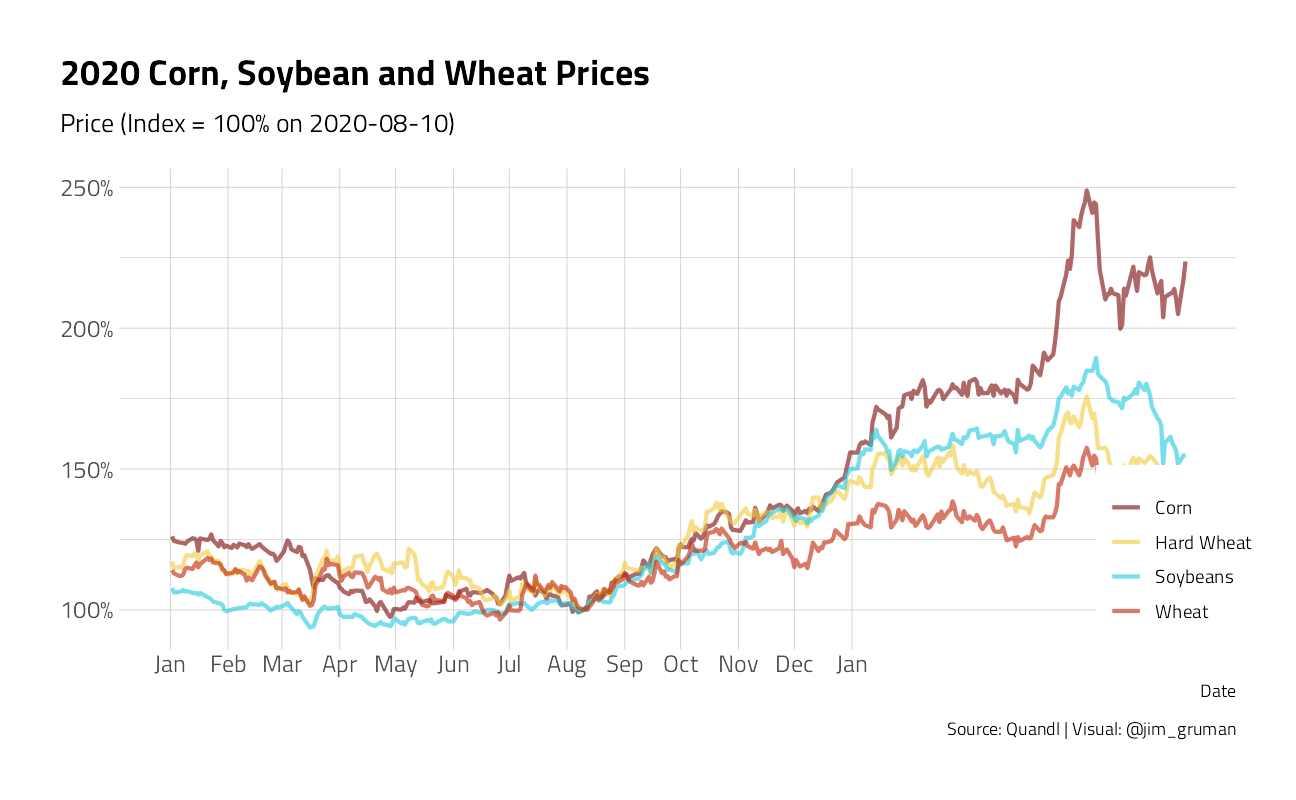
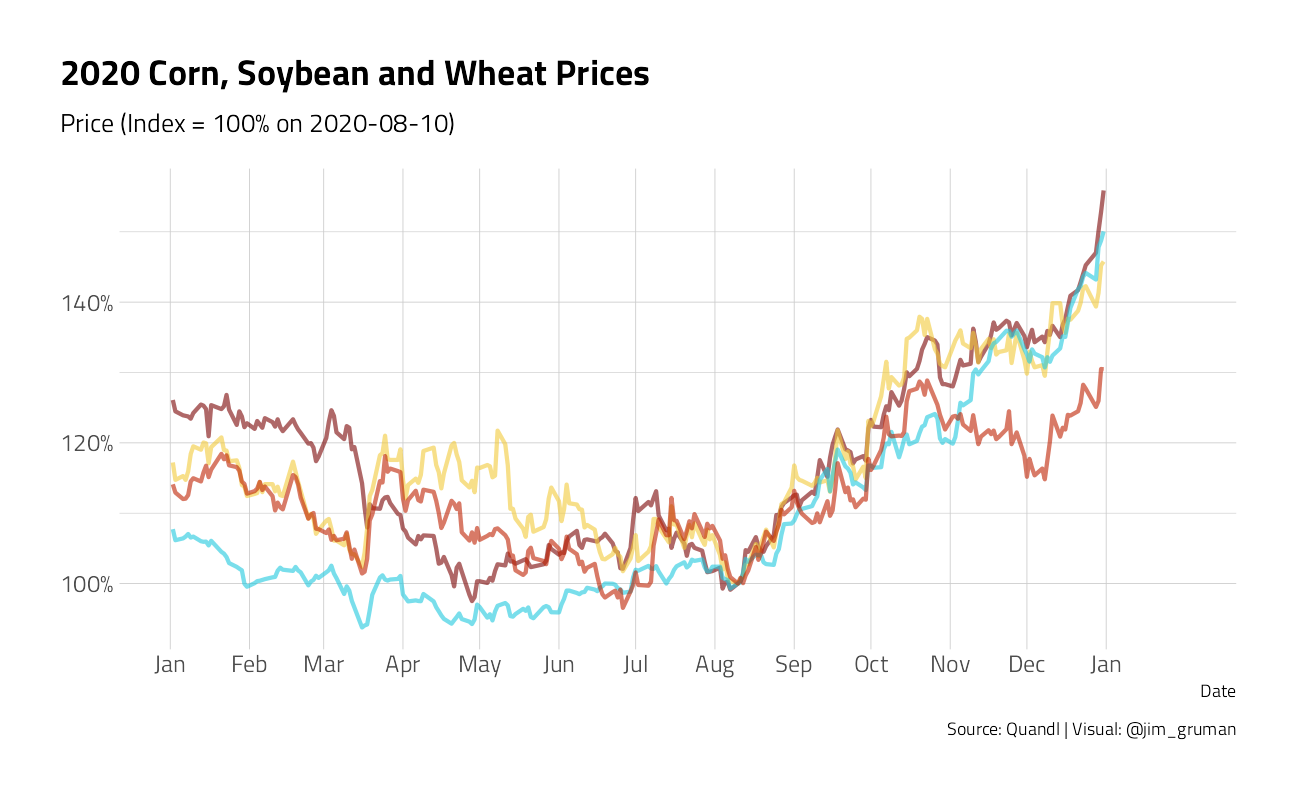
Build site.

diff --git a/docs/NASSStocksToUse.html b/docs/NASSStocksToUse.html
@@ -404,16 +404,16 @@ This reproducible <a href="http://rmarkdown.rstudio.com">R Markdown</a> analysis
 <div class="panel panel-default">
 <div class="panel-heading">
 <p class="panel-title">
-<a data-toggle="collapse" data-parent="#workflowr-checks" href="#strongRepositoryversionstrongahrefhttpsgithubcomopus1993myTidyTuesdaytree050b3d1964e13ca553042675c7e7b8377f16aecetargetblank050b3d1a"> <span class="glyphicon glyphicon-ok text-success" aria-hidden="true"></span> <strong>Repository version:</strong> <a href="https://github.com/opus1993/myTidyTuesday/tree/050b3d1964e13ca553042675c7e7b8377f16aece" target="_blank">050b3d1</a> </a>
+<a data-toggle="collapse" data-parent="#workflowr-checks" href="#strongRepositoryversionstrongahrefhttpsgithubcomopus1993myTidyTuesdaytree1c0244747ea918c54973bc61f8cb57d44e6970detargetblank1c02447a"> <span class="glyphicon glyphicon-ok text-success" aria-hidden="true"></span> <strong>Repository version:</strong> <a href="https://github.com/opus1993/myTidyTuesday/tree/1c0244747ea918c54973bc61f8cb57d44e6970de" target="_blank">1c02447</a> </a>
 </p>
 </div>
[2 lines of base64/hex data omitted]
 <div class="panel-body">
 <p>
 Great! You are using Git for version control. Tracking code development and connecting the code version to the results is critical for reproducibility.
 </p>
 <p>
-The results in this page were generated with repository version <a href="https://github.com/opus1993/myTidyTuesday/tree/050b3d1964e13ca553042675c7e7b8377f16aece" target="_blank">050b3d1</a>. See the <em>Past versions</em> tab to see a history of the changes made to the R Markdown and HTML files.
+The results in this page were generated with repository version <a href="https://github.com/opus1993/myTidyTuesday/tree/1c0244747ea918c54973bc61f8cb57d44e6970de" target="_blank">1c02447</a>. See the <em>Past versions</em> tab to see a history of the changes made to the R Markdown and HTML files.
 </p>
 <p>
 Note that you need to be careful to ensure that all relevant files for the analysis have been committed to Git prior to generating the results (you can use <code>wflow_publish</code> or <code>wflow_git_commit</code>). workflowr only checks the R Markdown file, but you know if there are other scripts or data files that it depends on. Below is the status of the Git repository when the results were generated:
@@ -467,6 +467,40 @@ Message
 </tr>
 </thead>
 <tbody>
+<tr>
+<td>
+Rmd
+</td>
+<td>
+<a href="https://github.com/opus1993/myTidyTuesday/blob/1c0244747ea918c54973bc61f8cb57d44e6970de/analysis/NASSStocksToUse.Rmd" target="_blank">1c02447</a>
+</td>
+<td>
+opus1993
+</td>
+<td>
+2021-09-09
+</td>
+<td>
+label lines directly without a legend
+</td>
+</tr>
+<tr>
+<td>
+html
+</td>
+<td>
+<a href="https://rawcdn.githack.com/opus1993/myTidyTuesday/210ff1d85e2cec81a4d2e7741bf30a0d83ecb6c9/docs/NASSStocksToUse.html" target="_blank">210ff1d</a>
+</td>
+<td>
+opus1993
+</td>
+<td>
+2021-09-09
+</td>
+<td>
+Build site.
+</td>
+</tr>
 <tr>
 <td>
 Rmd
@@ -583,7 +617,7 @@ pstocks &lt;- df1 %&gt;%
   pivot_longer(-year) %&gt;%
   mutate(name_lab = if_else(year == max(year), name, NA_character_)) %&gt;%
   ggplot(aes(x = year, y = value, color = name, label = name_lab)) +
-  geom_line(size = 1) +
+  geom_line(size = 1, show.legend = FALSE) +
   scale_y_continuous(labels = scales::percent_format(accuracy = 1)) +
   scale_x_continuous(
     limits = c(2000, 2023),
@@ -600,7 +634,8 @@ pstocks &lt;- df1 %&gt;%
     box.padding = .4,
     segment.curvature = -0.1,
     segment.ncp = 3,
-    segment.angle = 20
+    segment.angle = 20,
+    show.legend = FALSE
   ) +
   labs(
     x = NULL,
@@ -608,8 +643,7 @@ pstocks &lt;- df1 %&gt;%
     color = NULL,
     title = &quot;Crop Year Ending Stocks as a Percent of Use&quot;,
     caption = &quot;Source: USDA NASS | @jim_gruman&quot;
-  ) +
-  theme(legend.position = &quot;&quot;)</code></pre>
+  )</code></pre>
 <pre class="r"><code>Quandl.api_key(Sys.getenv(&quot;quandl&quot;))
 
 crops &lt;- c(&quot;Corn&quot;, &quot;Soybeans&quot;, &quot;SRW&quot;, &quot;HRW&quot;)
@@ -638,14 +672,29 @@ pprices2000 &lt;- df2 %&gt;%
   ) %&gt;%
   pivot_longer(-Date) %&gt;%
   filter(Date &gt; start_date) %&gt;%
-  ggplot(aes(x = Date, y = value, color = name)) +
-  geom_line(size = 1, alpha = 0.6) +
+  ggplot(aes(x = Date, y = value, color = name), show.legend = FALSE) +
+  geom_line(size = 1, alpha = 0.6, show.legend = FALSE) +
   scale_y_continuous(labels = scales::percent_format(accuracy = 1)) +
   scale_x_date(
-    limits = c(ymd(start_date), NA),
+    limits = c(ymd(start_date), max(df2$Date) %m+% months(12)),
     breaks = seq.Date(ymd(start_date), ymd(&quot;2020-01-01&quot;), by = &quot;5 years&quot;),
     minor_breaks = NULL,
     date_labels = &quot;%Y&quot;
+  ) +
+  geom_text_repel(
+    data = . %&gt;% filter(Date == max(df2$Date)),
+    aes(label = name),
+    direction = &quot;y&quot;,
+    xlim = c(max(df2$Date) %m+% months(9), NA),
+    hjust = 0,
+    segment.size = .7,
+    segment.alpha = .5,
+    segment.linetype = &quot;dotted&quot;,
+    box.padding = .4,
+    segment.curvature = -0.1,
+    segment.ncp = 3,
+    segment.angle = 20,
+    show.legend = FALSE
   ) +
   labs(
     x = &quot;Date&quot;, y = NULL, color = NULL,
@@ -667,15 +716,33 @@ pprices2020 &lt;- df2 %&gt;%
     `Hard Wheat` = HRW / max(ifelse(Date == min_date, HRW, 0))
   ) %&gt;%
   pivot_longer(-Date) %&gt;%
-  filter(Date &gt; ymd(&quot;2020-01-01&quot;)) %&gt;%
-  ggplot(aes(x = Date, y = value, color = name)) +
-  geom_line(size = 1, alpha = 0.6) +
+  filter(between(Date, ymd(&quot;2020-01-01&quot;), ymd(&quot;2020-12-31&quot;))) %&gt;%
+  ggplot(aes(x = Date, y = value, color = name), show.legend = FALSE) +
+  geom_line(size = 1, alpha = 0.6, show.legend = FALSE) +
   scale_y_continuous(labels = scales::percent_format(accuracy = 1)) +
   scale_x_date(
-    limits = c(ymd(&quot;2020-01-01&quot;), NA),
-    breaks = seq.Date(ymd(&quot;2020-01-01&quot;), ymd(&quot;2021-01-01&quot;), by = &quot;month&quot;),
+    limits = c(ymd(&quot;2020-01-01&quot;), ymd(&quot;2021-02-01&quot;)),
+    breaks = seq.Date(ymd(&quot;2020-01-01&quot;),
+      ymd(&quot;2021-01-01&quot;),
+      by = &quot;month&quot;
+    ),
     minor_breaks = NULL,
     date_labels = &quot;%b&quot;
+  ) +
+  geom_text_repel(
+    data = . %&gt;% filter(Date == ymd(&quot;2021-01-01&quot;)),
+    aes(label = name),
+    direction = &quot;y&quot;,
+    xlim = c(ymd(&quot;2021-01-01&quot;) %m+% months(1), NA),
+    hjust = 0,
+    segment.size = .7,
+    segment.alpha = .5,
+    segment.linetype = &quot;dotted&quot;,
+    box.padding = .4,
+    segment.curvature = -0.1,
+    segment.ncp = 3,
+    segment.angle = 20,
+    show.legend = FALSE
   ) +
   labs(
     x = &quot;Date&quot;, y = NULL,
